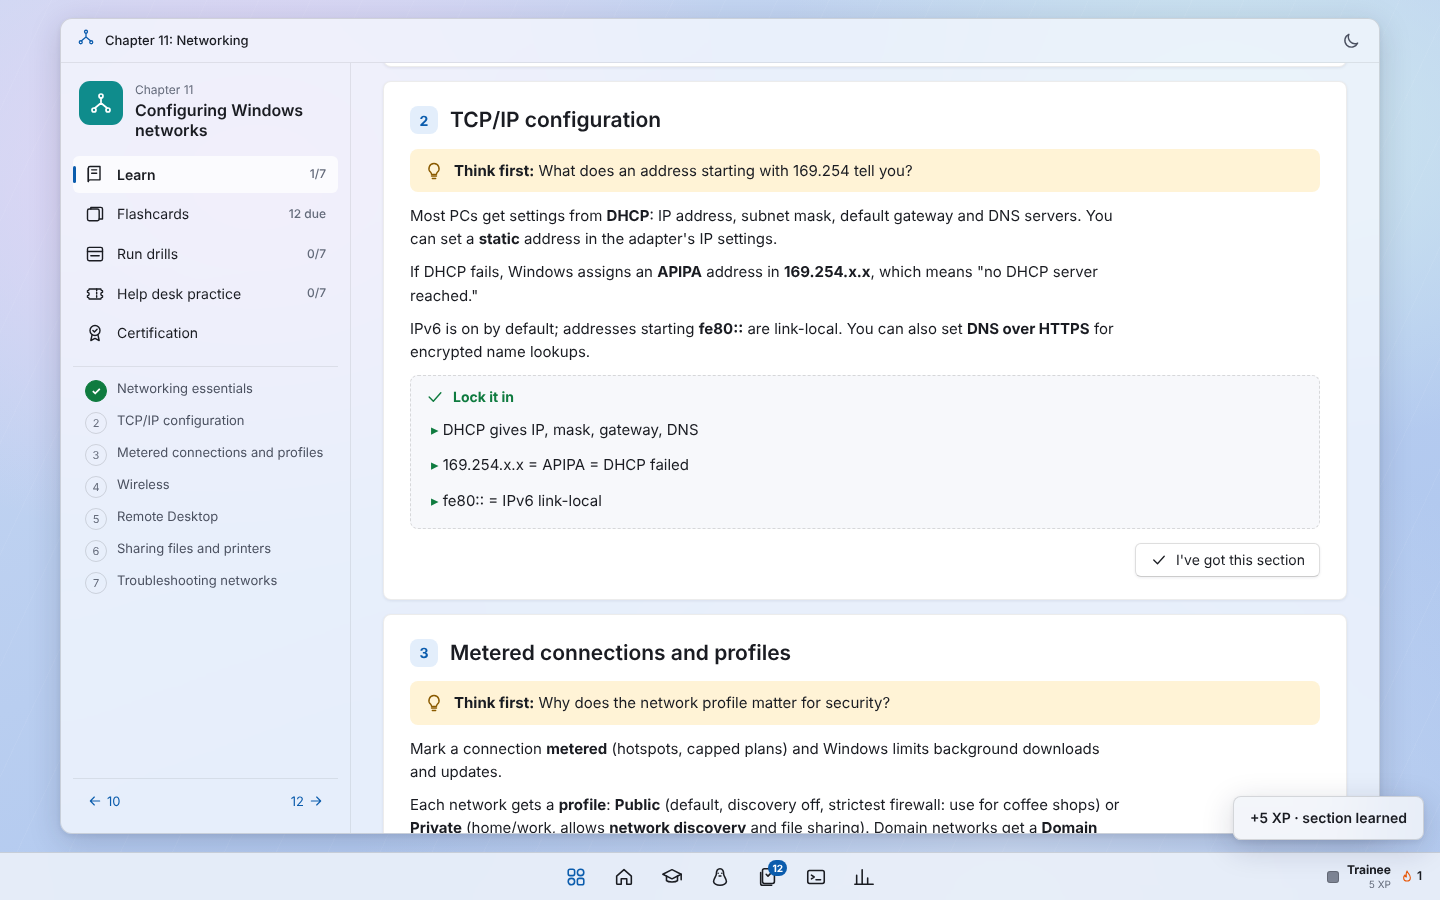
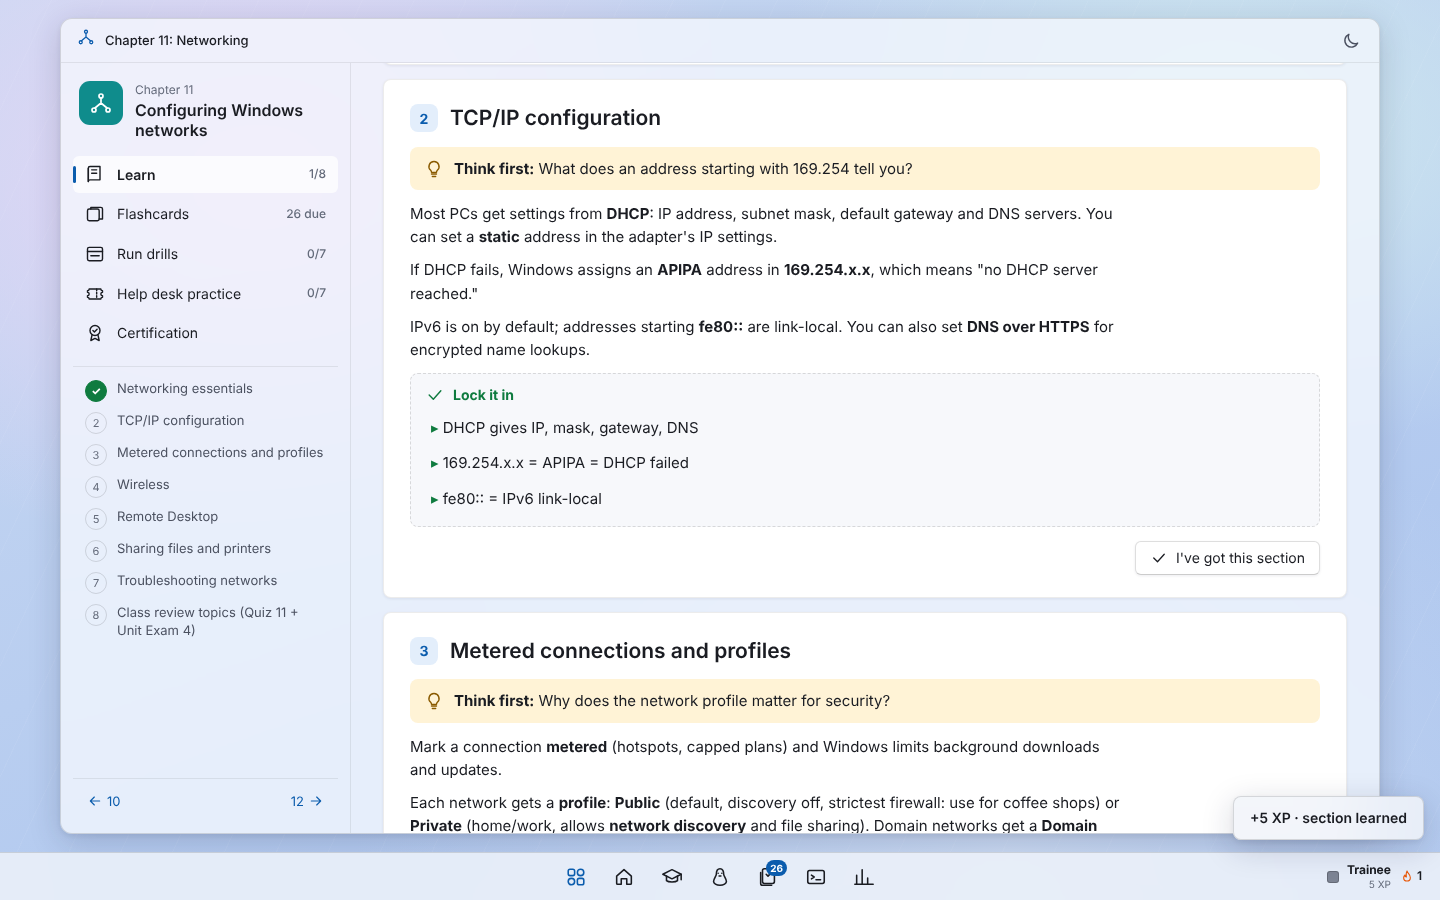
Main site covers all material, including review-sheet topics
- Each chapter (1-14) ends with a Class review topics lesson holding every
  item from its quiz and unit exam reviews, plus matching flashcards
- Chapter 18 gains the full Linux unit (Days 1-3, top commands) as lessons
  and flashcards
- Tests check every review item appears on the main site and that Exam prep
  holds only review-sheet items

diff --git a/js/app.js b/js/app.js
@@ -13,10 +13,31 @@
   const plural = (n, w) => `${n} ${w}${n === 1 ? '' : 's'}`;
   const CH = W.chapters;
 
+  // The main site covers everything, including the class review-sheet material: each book chapter gets its
+  // Exam prep items (quiz + unit exam topics) as extra lessons and flashcards, and Chapter 18 gets the Linux unit.
+  (function mergeCourse() {
+    if (typeof COURSE === 'undefined') return;
+    const add = (c, title, ids, lead) => {
+      const terms = ids.map(id => COURSE.terms[id]).filter(Boolean);
+      if (!terms.length) return;
+      const p = [lead];
+      terms.forEach(t => { p.push('### ' + t.t); t.a.forEach(x => p.push(x)); });
+      c.learn.push({ t: title, p, key: terms.map(t => `**${t.t}:** ${t.d}`), course: true });
+      const fronts = new Set(c.cards.map(x => x[0].toLowerCase()));
+      terms.forEach(t => { if (!fronts.has(t.t.toLowerCase())) c.cards.push([t.t, t.d]); });
+    };
+    COURSE.decks.filter(d => d.kind === 'chapter').forEach(d => {
+      const c = W.byId('c' + d.num); if (!c) return;
+      add(c, `Class review topics (${d.tests.join(' + ')})`, d.terms, `Everything on the NST 115 review sheets for this chapter. Practice it in the Exam prep tab.`);
+    });
+    const c18 = W.byId('c18');
+    if (c18) COURSE.decks.filter(d => d.kind === 'linux').forEach(d => add(c18, `Linux unit: ${d.title} (${d.sub})`, d.terms, d.note || `From the NST 115 Linux unit. Drill it in the Linux tab.`));
+  })();
+
   function paras(list) {
     let out = '', ul = [];
     const flush = () => { if (ul.length) { out += `<ul>${ul.map(li => `<li>${md(li)}</li>`).join('')}</ul>`; ul = []; } };
-    list.forEach(p => { if (p.startsWith('- ')) ul.push(p.slice(2)); else { flush(); out += `<p>${md(p)}</p>`; } });
+    list.forEach(p => { if (p.startsWith('- ')) ul.push(p.slice(2)); else if (p.startsWith('### ')) { flush(); out += `<h3 class="sub">${md(p.slice(4))}</h3>`; } else { flush(); out += `<p>${md(p)}</p>`; } });
     flush();
     return out;
   }

diff --git a/sw.js b/sw.js
@@ -1,7 +1,7 @@
 /* Tier One service worker: keeps a copy of the site on the device so it works offline.
    Pages and scripts are network-first (so updates show up right away) with the cache as a fallback;
    icons are cache-first. Only this site's own files are handled. */
-const CACHE = 'tier-one-v8';
+const CACHE = 'tier-one-v9';
 const CORE = ['./', 'index.html', 'css/style.css', 'js/data.js', 'js/content-1.js', 'js/content-2.js', 'js/content-3.js', 'js/course.js', 'js/icons.js', 'js/app.js',
   'manifest.webmanifest', 'icon.svg', 'icon-192.png', 'icon-512.png', 'icon-maskable-512.png', 'apple-touch-icon.png'];
 self.addEventListener('install', e => { e.waitUntil(caches.open(CACHE).then(c => c.addAll(CORE)).then(() => self.skipWaiting())); });

diff --git a/css/style.css b/css/style.css
@@ -495,3 +495,5 @@ kbd { font-size: .72em; border: 1px solid var(--stroke2); border-bottom-width: 2
 .chtiles { grid-template-columns: repeat(auto-fill, minmax(250px, 1fr)); }
 .tiles + .part-h { margin-top: 20px; }
 .onchip.slides { background: var(--good-bg); color: var(--good); }
+.prose h3.sub { font-size: 16px; margin: 18px 0 6px; padding-top: 12px; border-top: 1px solid var(--stroke); }
+.prose h3.sub:first-of-type { border-top: 0; padding-top: 0; }

diff --git a/tests/test_ui.py b/tests/test_ui.py
@@ -192,6 +192,16 @@ with sync_playwright() as p:
     check(page.locator('.rankcard .idbadge').count() == 1 and 'Trainee' in page.inner_text('.rankcard'), 'home shows the technician ID badge')
     check('belt' not in page.inner_text('body').lower(), 'no leftover belt wording on the home page')
 
+    # Main site covers everything: every Exam prep / Linux item appears in a main-site chapter lesson
+    missing = page.evaluate("""() => { const have = new Set(); W.chapters.forEach(c => c.learn.forEach(l => l.p.forEach(x => { if (x.startsWith('### ')) have.add(x.slice(4)); })));
+      return COURSE.decks.flatMap(d => d.terms).map(id => COURSE.terms[id].t).filter(t => !have.has(t)); }""")
+    check(not missing, f'main site covers every review-sheet and Linux item {missing[:3]}')
+    check(page.evaluate("COURSE.decks.filter(d => d.kind === 'chapter').every(d => d.terms.every(id => (COURSE.on[id] || []).length))"), 'exam prep holds only review-sheet items')
+    page.goto(URL + '#/c/c8/learn/6')
+    page.wait_for_selector('.sec h3.sub')
+    page.wait_for_timeout(400)
+    shot(page, 'lesson-review.png')
+
     # NST 115 exam prep tab: chapters only; Linux is its own tab
     page.goto(URL + '#/course')
     page.wait_for_selector('.chtiles .tile')

diff --git a/README.md b/README.md
@@ -46,6 +46,8 @@ Every study mode follows one rule: **the site never shows you the right answer.*
 <img src="docs/run.png" alt="Run drill dialog after two hints: 'The switch is a three-letter word meaning everything'" width="720">
 
 ### NST 115 exam prep tab
+The main site covers **all** of the material, including everything on the class review sheets: each chapter ends with a **Class review topics** lesson (and matching flashcards), and Chapter 18 includes the full Linux unit. The Exam prep tab is the focused version: **only** items from the quiz, test and exam reviews.
+
 A separate tab (graduation-cap icon on the taskbar) built from the NST 115 review sheets, **organized by chapter only**:
 - **Chapters 1-14**: each chapter combines its quiz review (Quizzes 1-14) and its part of the unit exam review (Unit Exams 1-4). Every item is answered from the textbook and class materials, with badges showing which test it's on (**Quiz 8**, **Unit Exam 3**) and a source tag (book chapter, class materials, or general knowledge to check against notes)
 - **Review sheet** with Recall mode (answers hidden until you've said them), **Flash review**, and a **Practice exam** that tells you what a wrong pick actually is but never reveals the right one
